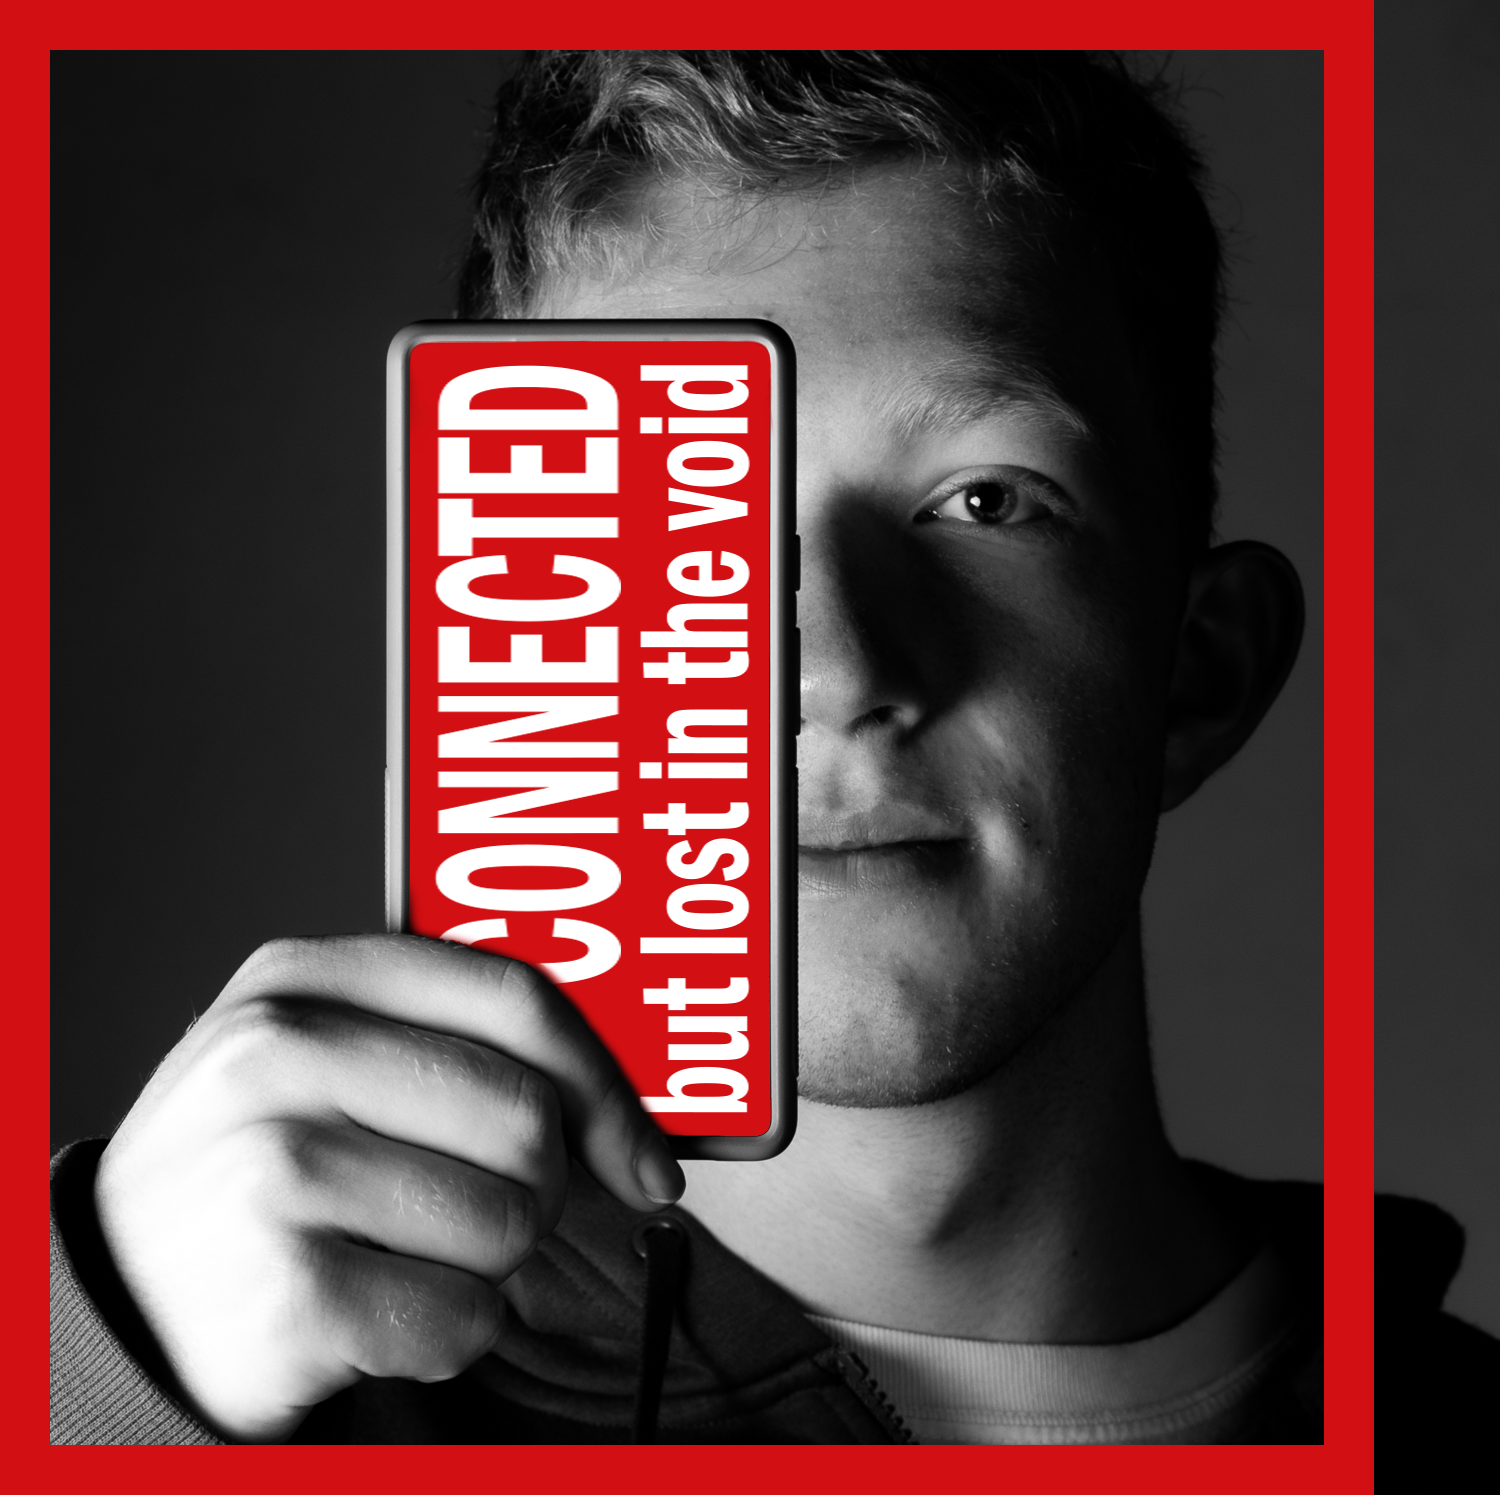
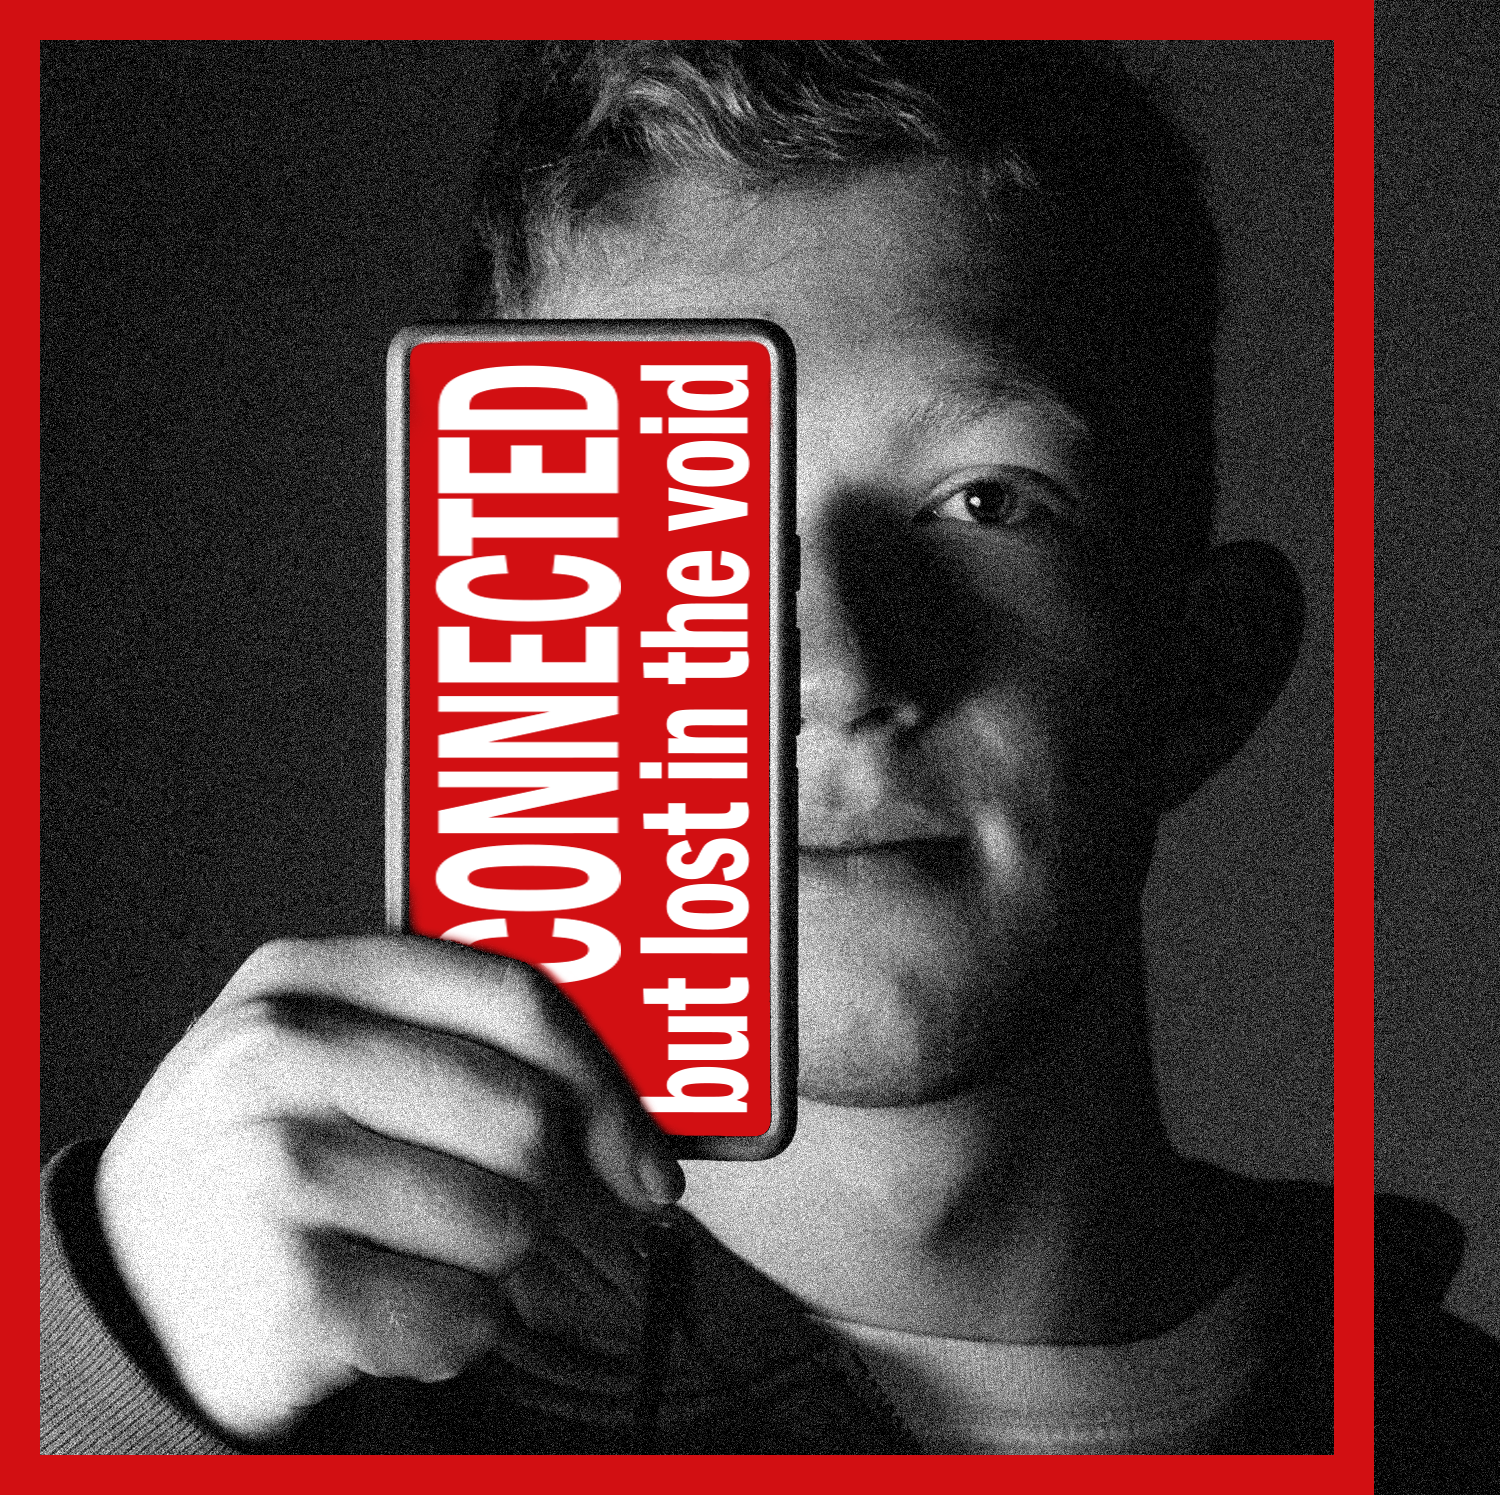
feat: barbara kruger noise

Changed region(s): [[0.0, 0.0, 0.8893, 0.9846], [0.92, 0.0, 1.0, 1.0]]

diff --git a/content/photography/february/index.md b/content/photography/february/index.md
@@ -84,24 +84,29 @@ resources:
     params:
       weight: 15
       date: 2025-03-04
+  - src: barbara_kruger_original.png
+    title: "Barbara Kruger (original)"
+    params:
+      weight: 16
+      date: 2025-03-04
   - src: aaron_siskind0.png
     title: "Aaron Siskind 0<br>1/250 sec at f / 5.0. ISO 200"
     params:
-      weight: 16
+      weight: 17
       date: 2025-02-25
   - src: aaron_siskind1.png
     title: "Aaron Siskind 1<br>1/800 sec at f / 2.8, ISO 100"
     params:
-      weight: 17
+      weight: 18
       date: 2025-03-05
   - src: aaron_siskind2.png
     title: "Aaron Siskind 2<br>1/320 sec at f / 2.8. ISO 100"
     params:
-      weight: 18
+      weight: 19
       date: 2025-03-05
   - src: aaron_siskind3.png
     title: "Aaron Siskind 3<br>1/1250 sec at f / 2.8, ISO 100"
     params:
-      weight: 19
+      weight: 20
       date: 2025-03-05
 ---
